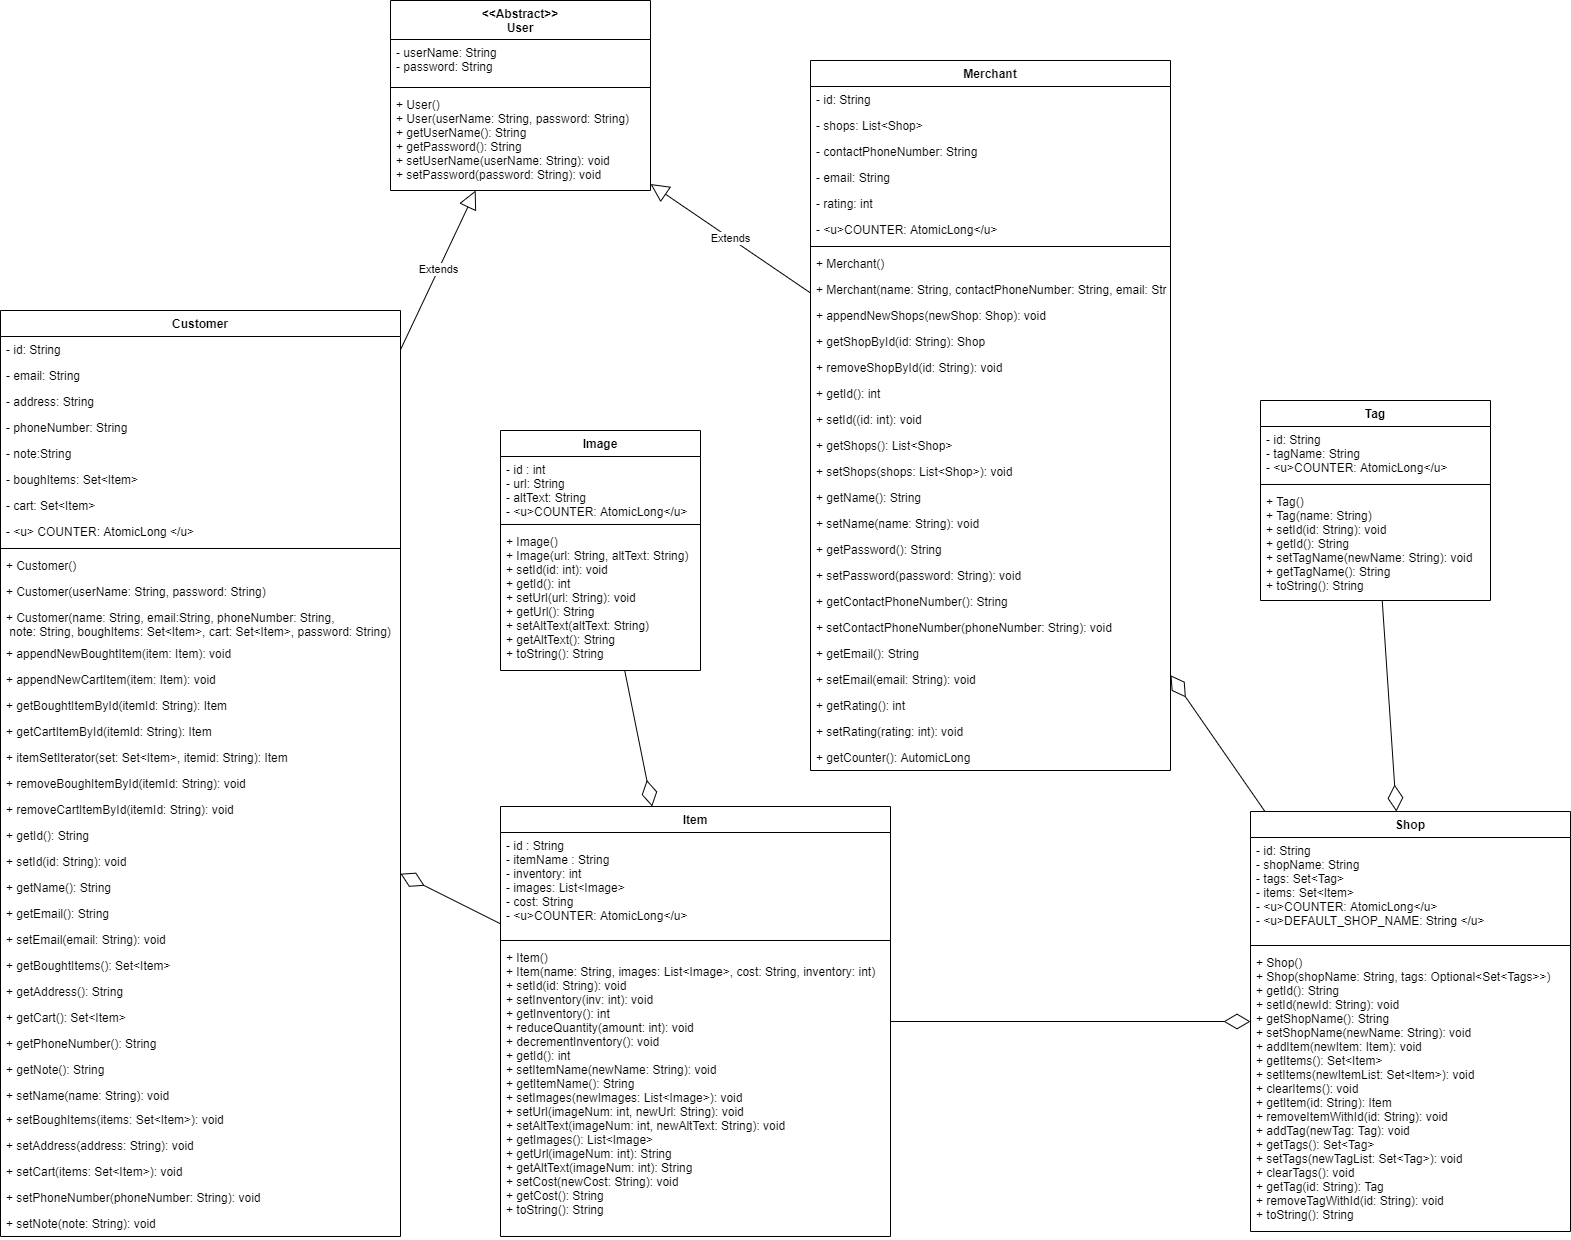
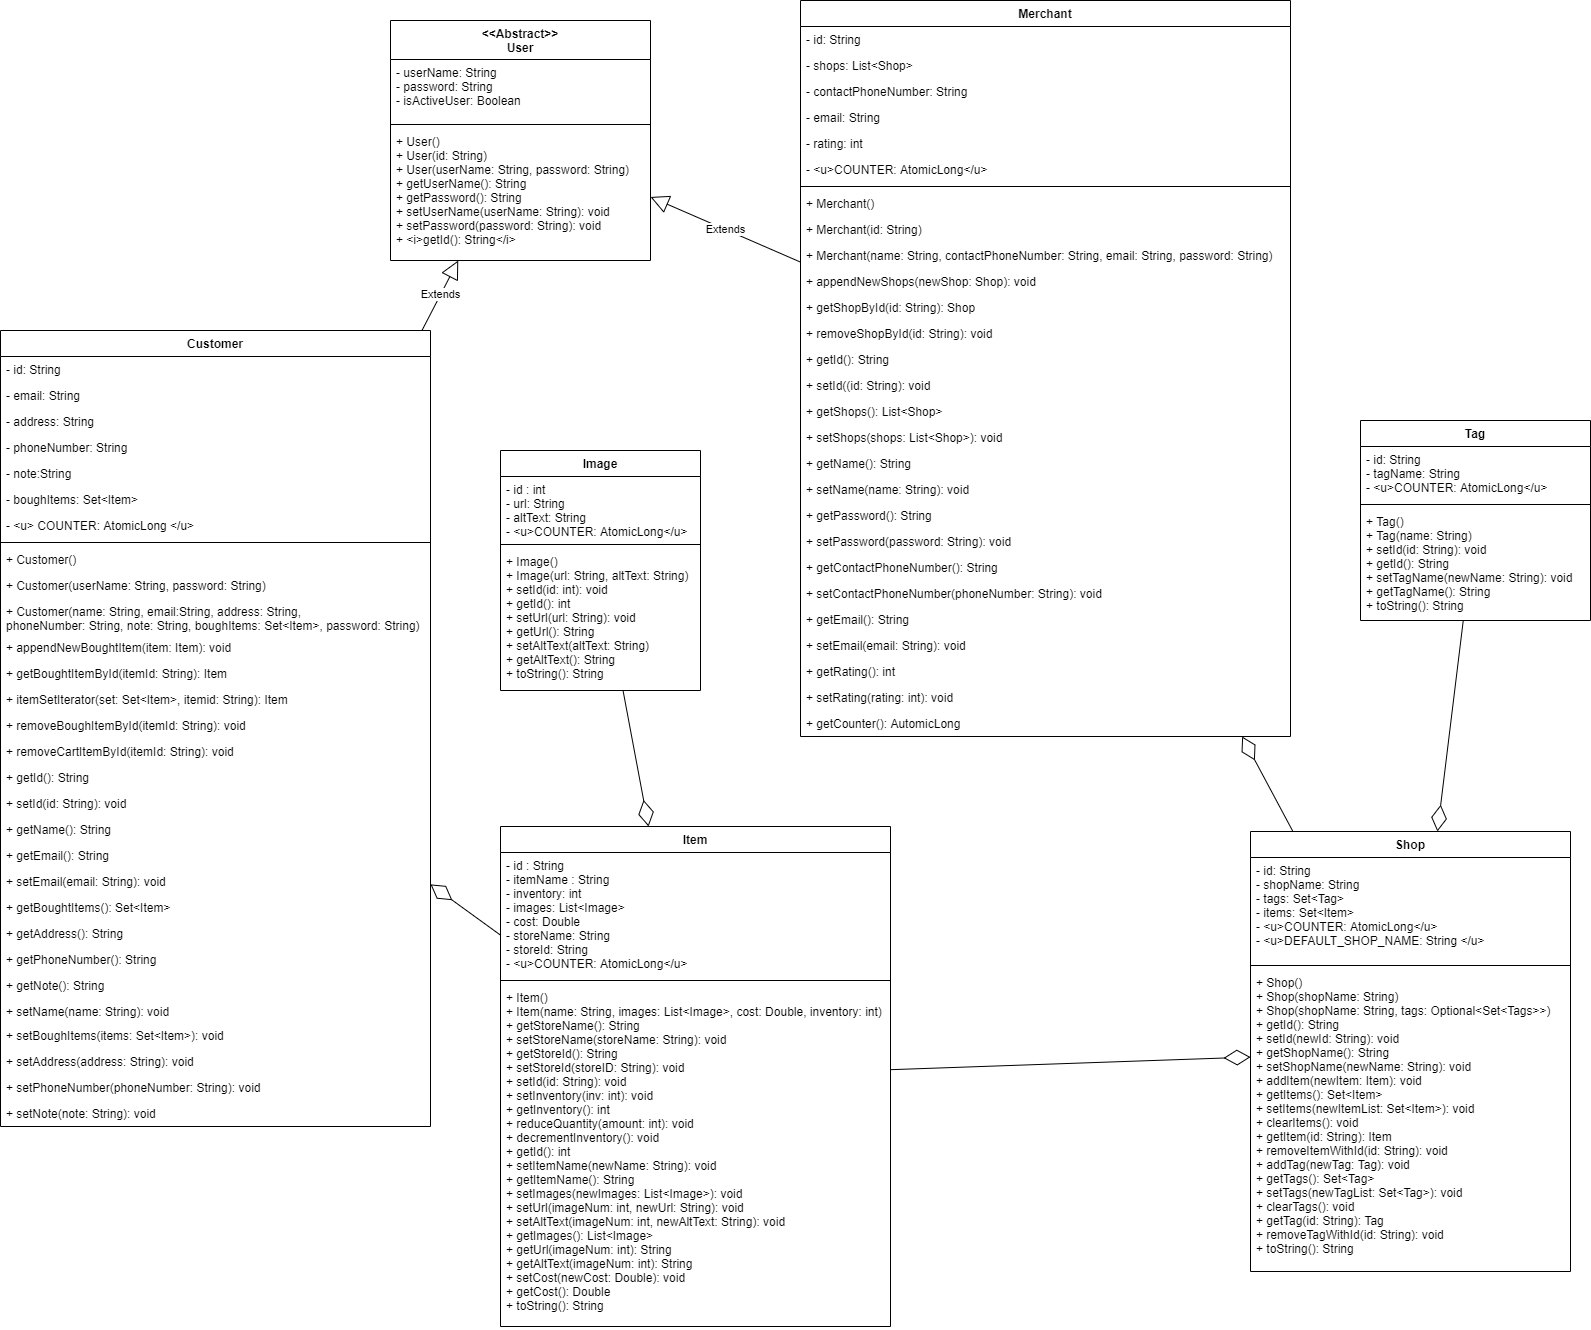
Update README

diff --git a/src/main/java/ShopifyProj/Model/Item.java b/src/main/java/ShopifyProj/Model/Item.java
@@ -21,22 +21,6 @@ public class Item {
     private List<Image> images;
     private Double cost;
 
-    public String getStoreName() {
-        return storeName;
-    }
-
-    public void setStoreName(String storeName) {
-        this.storeName = storeName;
-    }
-
-    public String getStoreID() {
-        return storeID;
-    }
-
-    public void setStoreID(String storeID) {
-        this.storeID = storeID;
-    }
-
     private String storeName;
     private String storeID;
 
@@ -54,6 +38,22 @@ public class Item {
         this.images = images;
         this.inventory = inventory;
         this.cost = cost;
+    }
+
+    public String getStoreName() {
+        return storeName;
+    }
+
+    public void setStoreName(String storeName) {
+        this.storeName = storeName;
+    }
+
+    public String getStoreID() {
+        return storeID;
+    }
+
+    public void setStoreID(String storeID) {
+        this.storeID = storeID;
     }
 
     public void setId(String id) {

diff --git a/README.md b/README.md
@@ -31,6 +31,7 @@ Merchant can create a new shop by filling in a form containing: the name of the 
  - Customers can add items to cart and checkout
  
  ### UML Diagram
+ NOTE: We used Strings for the IDs of our classes. The reason we did this as opposed to the autogenerated IDs that Spring provides is because we wanted it to match the IDs in the database. As part of our project, we had to use Firebase. Firebase uses alphanumeric values for its IDs, so we had to use Strings to maintain references to these IDs in the corresponding objects.
  ![UML](https://github.com/haseebakhan10/EngLabProject/blob/master/diagrams/Eng%20Lab%20Project%20UML.png)
  
  ### Database Schema
